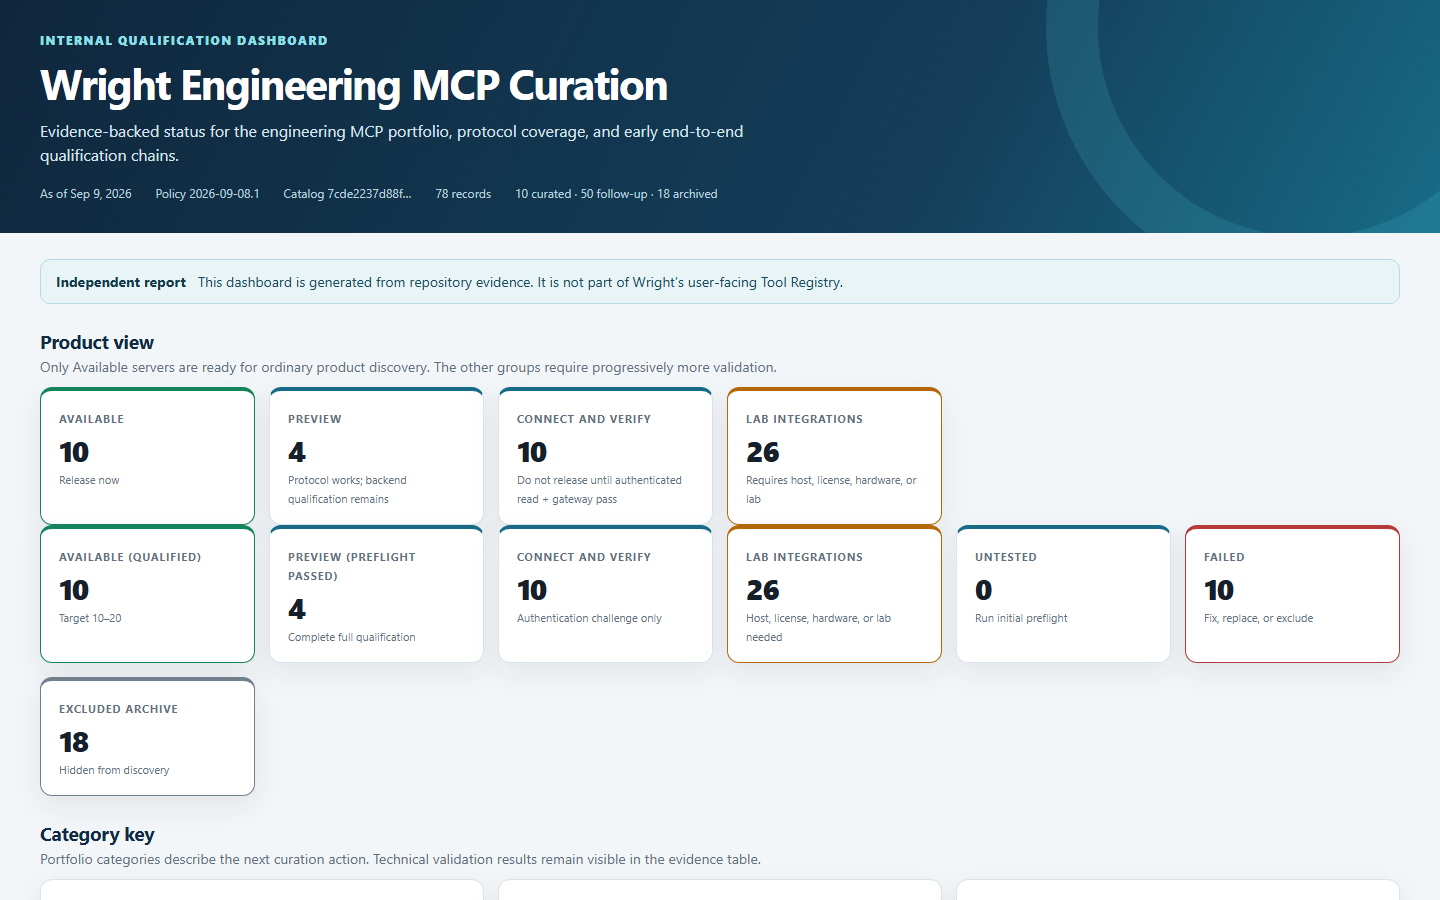
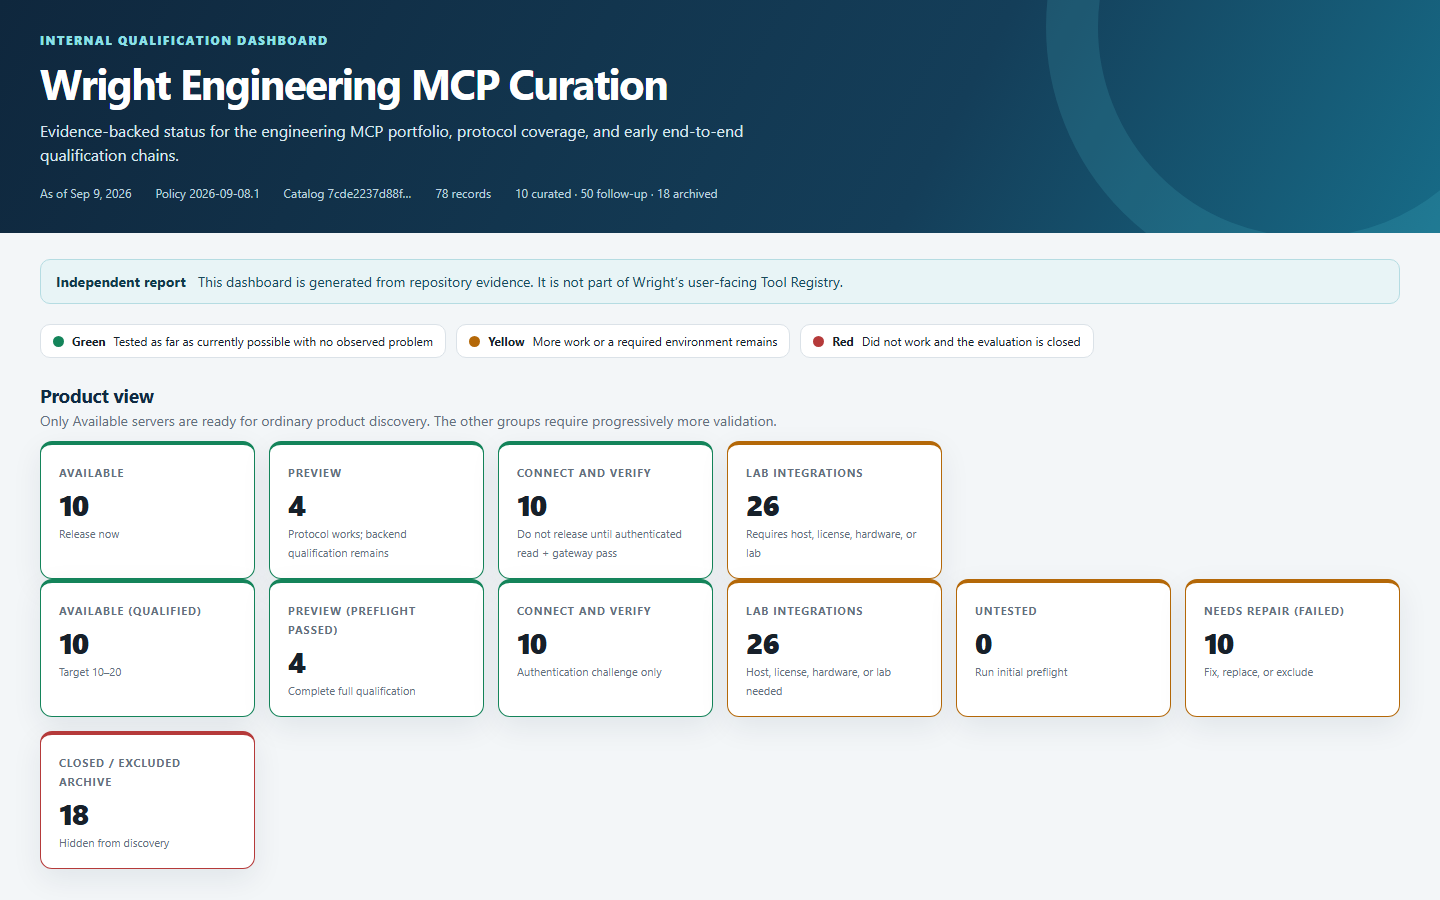
Apply traffic-light MCP dashboard colors

Changed region(s): [[0.0312, 0.3733, 0.9688, 0.9644], [0.8438, 0.56, 0.9688, 0.5911]]

diff --git a/docs/mcp-catalog/evidence/curation-2026-09-09/dashboard/index.html b/docs/mcp-catalog/evidence/curation-2026-09-09/dashboard/index.html
@@ -75,7 +75,7 @@
     .kpi.good { border-color: var(--green); }
     .kpi.warn { border-color: var(--amber); }
     .kpi.bad { border-color: var(--red); }
-    .kpi.archive { border-color: #71808d; }
+    .kpi.archive { border-color: var(--red); }
     .kpi-label { color: var(--muted); font-size: 11px; font-weight: 750; letter-spacing: .08em; text-transform: uppercase; }
     .kpi-value { display: block; margin-top: 4px; font-size: 29px; font-weight: 800; letter-spacing: -.04em; }
     .kpi-note { color: var(--muted); font-size: 11px; }
@@ -95,11 +95,15 @@
     .big-number { display: block; font-size: 26px; font-weight: 800; margin: 14px 0 1px; }
     .small-row { color: var(--muted); line-height: 1.55; }
     .pill { display: inline-flex; align-items: center; border-radius: 999px; padding: 4px 8px; font-size: 10px; font-weight: 800; letter-spacing: .04em; text-transform: uppercase; background: #e7ecef; color: #4a5966; }
-    .pill.passing, .pill.curated, .pill.passed, .pill.implemented, .pill.qualified { background: #dff3e9; color: #086942; }
-    .pill.follow_up, .pill.blocked, .pill.dependency_missing, .pill.qualification_required, .pill.environment_required { background: #fff0d8; color: #8c4e00; }
-    .pill.removed, .pill.failing, .pill.failed { background: #fde6e6; color: #9c2424; }
-    .pill.untested, .pill.stale, .pill.research_preview, .pill.excluded_archive { background: #e7edf4; color: #405569; }
-    .pill.preflight_passed { background: #dff0f5; color: #0a6177; }
+    .pill.passing, .pill.curated, .pill.passed, .pill.implemented, .pill.qualified, .pill.preflight_passed, .pill.authentication_required { background: #dff3e9; color: #086942; }
+    .pill.follow_up, .pill.blocked, .pill.dependency_missing, .pill.qualification_required, .pill.environment_required, .pill.untested, .pill.stale, .pill.research_preview, .pill.failing, .pill.failed { background: #fff0d8; color: #8c4e00; }
+    .pill.removed, .pill.excluded_archive { background: #fde6e6; color: #9c2424; }
+    .traffic-legend { display: flex; flex-wrap: wrap; gap: 10px; margin: 16px 0 8px; }
+    .traffic-item { display: flex; align-items: center; gap: 8px; padding: 8px 12px; border: 1px solid var(--line); border-radius: 10px; background: #fff; font-size: 12px; }
+    .traffic-dot { width: 11px; height: 11px; border-radius: 50%; flex: 0 0 auto; }
+    .traffic-dot.green { background: var(--green); }
+    .traffic-dot.yellow { background: var(--amber); }
+    .traffic-dot.red { background: var(--red); }
     .chains { grid-template-columns: repeat(3, minmax(0, 1fr)); }
     .chain { padding: 18px; border-left: 4px solid var(--green); }
     .chain .route { color: var(--muted); min-height: 40px; margin: 7px 0 14px; line-height: 1.45; }
@@ -155,6 +159,11 @@
   </header>
   <main id="dashboard" data-testid="engineering-mcp-dashboard">
     <div class="notice"><strong>Independent report</strong><span>This dashboard is generated from repository evidence. It is not part of Wright’s user-facing Tool Registry.</span></div>
+    <div class="traffic-legend" data-testid="engineering-color-key">
+      <div class="traffic-item"><span class="traffic-dot green"></span><strong>Green</strong><span>Tested as far as currently possible with no observed problem</span></div>
+      <div class="traffic-item"><span class="traffic-dot yellow"></span><strong>Yellow</strong><span>More work or a required environment remains</span></div>
+      <div class="traffic-item"><span class="traffic-dot red"></span><strong>Red</strong><span>Did not work and the evaluation is closed</span></div>
+    </div>
     <section>
       <div class="section-head"><div><h2>Product view</h2><p class="section-copy">Only Available servers are ready for ordinary product discovery. The other groups require progressively more validation.</p></div></div>
       <div class="grid kpis" id="product-groups" data-testid="engineering-product-groups"></div>
@@ -236,7 +245,15 @@
     const values = (record) => [record.name, record.server_id, record.vendor, record.scope, record.next_action, record.portfolio_category, record.portfolio_category_reason, record.curation_reason, ...(record.prerequisites || []), ...(record.disciplines || [])].join(" ").toLowerCase();
 
     function renderKpis(status) {
-      const tones = { qualified: "good", environment_required: "warn", failed: "bad", excluded_archive: "archive" };
+      const tones = {
+        qualified: "good",
+        preflight_passed: "good",
+        authentication_required: "good",
+        environment_required: "warn",
+        untested: "warn",
+        failed: "warn",
+        excluded_archive: "archive",
+      };
       const notes = {
         qualified: `Target ${status.target.minimum}–${status.target.maximum}`,
         preflight_passed: "Complete full qualification",
@@ -265,7 +282,7 @@
         lab_integrations: "Requires host, license, hardware, or lab",
       };
       for (const item of status.product_groups) {
-        const card = node("div", `card kpi ${item.id === "available" ? "good" : item.id === "lab_integrations" ? "warn" : ""}`);
+        const card = node("div", `card kpi ${item.id === "lab_integrations" ? "warn" : "good"}`);
         card.dataset.testid = `engineering-product-${item.id}`;
         appendText(card, "span", "kpi-label", item.label);
         appendText(card, "strong", "kpi-value", String(item.count));

diff --git a/scripts/engineering-mcp-dashboard.html b/scripts/engineering-mcp-dashboard.html
@@ -75,7 +75,7 @@
     .kpi.good { border-color: var(--green); }
     .kpi.warn { border-color: var(--amber); }
     .kpi.bad { border-color: var(--red); }
-    .kpi.archive { border-color: #71808d; }
+    .kpi.archive { border-color: var(--red); }
     .kpi-label { color: var(--muted); font-size: 11px; font-weight: 750; letter-spacing: .08em; text-transform: uppercase; }
     .kpi-value { display: block; margin-top: 4px; font-size: 29px; font-weight: 800; letter-spacing: -.04em; }
     .kpi-note { color: var(--muted); font-size: 11px; }
@@ -95,11 +95,15 @@
     .big-number { display: block; font-size: 26px; font-weight: 800; margin: 14px 0 1px; }
     .small-row { color: var(--muted); line-height: 1.55; }
     .pill { display: inline-flex; align-items: center; border-radius: 999px; padding: 4px 8px; font-size: 10px; font-weight: 800; letter-spacing: .04em; text-transform: uppercase; background: #e7ecef; color: #4a5966; }
-    .pill.passing, .pill.curated, .pill.passed, .pill.implemented, .pill.qualified { background: #dff3e9; color: #086942; }
-    .pill.follow_up, .pill.blocked, .pill.dependency_missing, .pill.qualification_required, .pill.environment_required { background: #fff0d8; color: #8c4e00; }
-    .pill.removed, .pill.failing, .pill.failed { background: #fde6e6; color: #9c2424; }
-    .pill.untested, .pill.stale, .pill.research_preview, .pill.excluded_archive { background: #e7edf4; color: #405569; }
-    .pill.preflight_passed { background: #dff0f5; color: #0a6177; }
+    .pill.passing, .pill.curated, .pill.passed, .pill.implemented, .pill.qualified, .pill.preflight_passed, .pill.authentication_required { background: #dff3e9; color: #086942; }
+    .pill.follow_up, .pill.blocked, .pill.dependency_missing, .pill.qualification_required, .pill.environment_required, .pill.untested, .pill.stale, .pill.research_preview, .pill.failing, .pill.failed { background: #fff0d8; color: #8c4e00; }
+    .pill.removed, .pill.excluded_archive { background: #fde6e6; color: #9c2424; }
+    .traffic-legend { display: flex; flex-wrap: wrap; gap: 10px; margin: 16px 0 8px; }
+    .traffic-item { display: flex; align-items: center; gap: 8px; padding: 8px 12px; border: 1px solid var(--line); border-radius: 10px; background: #fff; font-size: 12px; }
+    .traffic-dot { width: 11px; height: 11px; border-radius: 50%; flex: 0 0 auto; }
+    .traffic-dot.green { background: var(--green); }
+    .traffic-dot.yellow { background: var(--amber); }
+    .traffic-dot.red { background: var(--red); }
     .chains { grid-template-columns: repeat(3, minmax(0, 1fr)); }
     .chain { padding: 18px; border-left: 4px solid var(--green); }
     .chain .route { color: var(--muted); min-height: 40px; margin: 7px 0 14px; line-height: 1.45; }
@@ -155,6 +159,11 @@
   </header>
   <main id="dashboard" data-testid="engineering-mcp-dashboard">
     <div class="notice"><strong>Independent report</strong><span>This dashboard is generated from repository evidence. It is not part of Wright’s user-facing Tool Registry.</span></div>
+    <div class="traffic-legend" data-testid="engineering-color-key">
+      <div class="traffic-item"><span class="traffic-dot green"></span><strong>Green</strong><span>Tested as far as currently possible with no observed problem</span></div>
+      <div class="traffic-item"><span class="traffic-dot yellow"></span><strong>Yellow</strong><span>More work or a required environment remains</span></div>
+      <div class="traffic-item"><span class="traffic-dot red"></span><strong>Red</strong><span>Did not work and the evaluation is closed</span></div>
+    </div>
     <section>
       <div class="section-head"><div><h2>Product view</h2><p class="section-copy">Only Available servers are ready for ordinary product discovery. The other groups require progressively more validation.</p></div></div>
       <div class="grid kpis" id="product-groups" data-testid="engineering-product-groups"></div>
@@ -236,7 +245,15 @@
     const values = (record) => [record.name, record.server_id, record.vendor, record.scope, record.next_action, record.portfolio_category, record.portfolio_category_reason, record.curation_reason, ...(record.prerequisites || []), ...(record.disciplines || [])].join(" ").toLowerCase();
 
     function renderKpis(status) {
-      const tones = { qualified: "good", environment_required: "warn", failed: "bad", excluded_archive: "archive" };
+      const tones = {
+        qualified: "good",
+        preflight_passed: "good",
+        authentication_required: "good",
+        environment_required: "warn",
+        untested: "warn",
+        failed: "warn",
+        excluded_archive: "archive",
+      };
       const notes = {
         qualified: `Target ${status.target.minimum}–${status.target.maximum}`,
         preflight_passed: "Complete full qualification",
@@ -265,7 +282,7 @@
         lab_integrations: "Requires host, license, hardware, or lab",
       };
       for (const item of status.product_groups) {
-        const card = node("div", `card kpi ${item.id === "available" ? "good" : item.id === "lab_integrations" ? "warn" : ""}`);
+        const card = node("div", `card kpi ${item.id === "lab_integrations" ? "warn" : "good"}`);
         card.dataset.testid = `engineering-product-${item.id}`;
         appendText(card, "span", "kpi-label", item.label);
         appendText(card, "strong", "kpi-value", String(item.count));

diff --git a/scripts/engineering_mcp_status.py b/scripts/engineering_mcp_status.py
@@ -72,13 +72,13 @@ PORTFOLIO_CATEGORIES = (
     },
     {
         "id": "failed",
-        "label": "Failed",
+        "label": "Needs repair (Failed)",
         "definition": "Current evidence shows an implementation, packaging, startup, or protocol failure.",
         "action": "Fix, replace, or exclude the implementation.",
     },
     {
         "id": "excluded_archive",
-        "label": "Excluded archive",
+        "label": "Closed / Excluded archive",
         "definition": "Retired, superseded, unavailable, duplicate, or not actually an MCP server.",
         "action": "Hide from discovery and retain the decision record to prevent repeated review.",
     },
